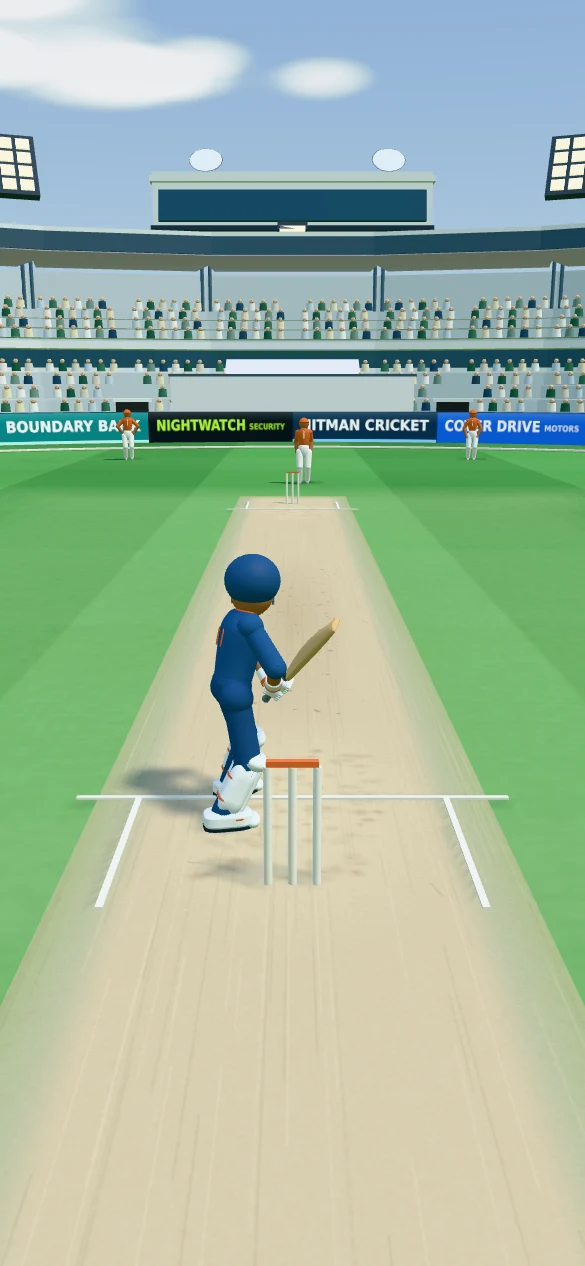
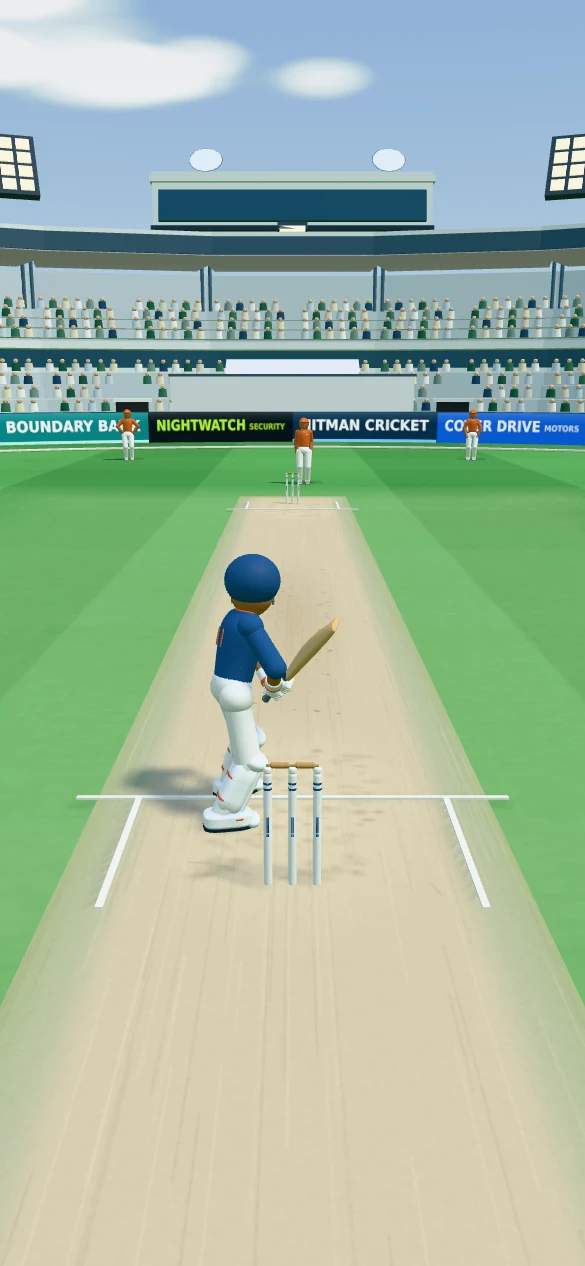
Refine cricket kits, fielding figures and wicket details

diff --git a/src/entities/Cricketer.ts b/src/entities/Cricketer.ts
@@ -1,4 +1,5 @@
 import * as THREE from 'three';
+import { jerseyGeometry } from './garment';
 import { compactRigidParts, LimbInstances } from './compactParts';
 import { RoundedBoxGeometry } from 'three/examples/jsm/geometries/RoundedBoxGeometry.js';
 import { Point, UP, segment, solveJoint } from './rig';
@@ -58,19 +59,6 @@ export const SPINE = .46;
 /** Hip height stood upright, with the legs very nearly straight. */
 export const REST_HIP = .9525;
 
-/**
- * A surface of revolution from a bottom-to-top `[height, radius]` profile,
- * flattened front to back. One of these is a whole trunk — shoulders, ribs,
- * waist and neck in a single unbroken skin — where a stack of ellipsoids leaves
- * a seam at every join and reads as exactly what it is.
- */
-function lathe(profile: [number, number][], depth: number, segments = 32) {
-  const geometry = new THREE.LatheGeometry(profile.map(([y, r]) => new THREE.Vector2(Math.max(r, .002), y)), segments);
-  geometry.scale(1, 1, depth);
-  geometry.computeVertexNormals();
-  return geometry;
-}
-
 const SHAPES = {
   ball: new THREE.SphereGeometry(1, 16, 12),
   /**
@@ -82,22 +70,11 @@ const SHAPES = {
   limb: new THREE.CylinderGeometry(.5, .62, 1, 12, 1),
   tube: new THREE.CylinderGeometry(.5, .5, 1, 12, 1),
   soft: new RoundedBoxGeometry(1, 1, 1, 2, .3),
-  /** Shoulders down to the waist, and up into the neck, in one piece. */
-  trunk: lathe([
-    [-.34, .02], [-.325, .112], [-.27, .142], [-.17, .163], [-.05, .190],
-    [.055, .201], [.125, .186], [.170, .140], [.200, .098],
-    [.245, .072], [.300, .067], [.325, .02],
-  ], .74),
-  /** The pelvis, wide enough at the top for the trunk to tuck inside it. */
-  pelvis: lathe([
-    [-.20, .02], [-.185, .098], [-.125, .146], [-.02, .170], [.075, .167],
-    [.150, .150], [.200, .092], [.225, .02],
-  ], .80),
-  /** A head, rather than a ball with a jaw stuck under it. */
-  head: lathe([
-    [-.160, .02], [-.144, .066], [-.112, .105], [-.058, .129],
-    [.011, .139], [.075, .132], [.126, .099], [.158, .02],
-  ], .92),
+  // Thin sewn details need only six faces; keep rounding for large forms.
+  detail: new THREE.BoxGeometry(1, 1, 1),
+  // Same profile as the batter, sampled more sparsely for distant players.
+  trunk: jerseyGeometry(24, 20),
+  collar: new THREE.TorusGeometry(.071, .012, 6, 24).rotateX(Math.PI / 2),
 };
 
 export interface Kit {
@@ -172,19 +149,21 @@ export class Cricketer {
     this.root.name = 'Articulated cricketer';
     this.root.add(this.hips, this.torso, this.head);
 
-    // Trunk and pelvis are one lathed skin each, and they overlap at the waist
-    // with the trunk tucked inside the wider pelvis, so the join is buried
-    // rather than shown. The neck is part of the trunk for the same reason.
+    // Match the batter's jersey, preserving the existing animation anchors.
     this.mesh(this.torso, shirt, [1, 1, 1], 'trunk');
-    this.mesh(this.hips, trousers, [1, 1, 1], 'pelvis');
-    // Collar and placket, so a turning body reads as turning.
-    this.mesh(this.torso, trim, [.172, .036, .166], 'tube').position.y = .196;
-    this.mesh(this.torso, trim, [.034, .26, .012], 'soft').position.set(0, .01, .142);
-    this.mesh(this.torso, skin, [.128, .10, .118], 'tube').position.y = .27;
+    this.mesh(this.hips, trousers, [.185, .145, .135], 'ball');
+    this.mesh(this.torso, trim, [1, 1, .93], 'collar').position.y = .154;
+    this.mesh(this.torso, trim, [.024, .06, .008], 'detail').position.set(0, .105, .123);
+    this.mesh(this.torso, skin, [.115, .17, .115], 'tube').position.y = .205;
+    // Club badge and a sewn back number, baked into the collar's trim mesh.
+    this.mesh(this.torso, trim, [.035, .043, .008], 'detail').position.set(-.087, .015, .134);
+    for (const x of [-.055, .055]) this.mesh(this.torso, trim, [.028, .125, .008], 'detail').position.set(x, -.04, -.143);
 
-    // Head: one shape, with the cap sitting on it.
-    this.mesh(this.head, skin, [1, 1, 1], 'head');
+    // Rounded face and jaw follow the batter, with a fielding cap.
+    this.mesh(this.head, skin, [.139, .17, .14], 'ball').position.y = -.015;
+    this.mesh(this.head, skin, [.069, .08, .058], 'ball').position.set(0, -.09, .075);
     for (const x of [-.127, .127]) this.mesh(this.head, skin, [.024, .044, .034], 'ball').position.set(x, -.005, -.012);
+    this.mesh(this.head, skin, [.023, .037, .036], 'ball').position.set(0, -.033, .126);
     const cap = material(kit.cap, .74);
     this.palette.push({ role: 'cap', mat: cap });
     this.mesh(this.head, cap, [.144, .128, .152], 'ball').position.set(0, .050, -.004);
@@ -192,7 +171,8 @@ export class Cricketer {
     // dome. A band round a sphere would ring the whole head like a crest.
     const peak = this.mesh(this.head, cap, [.152, .030, .150], 'ball');
     peak.position.set(0, .046, .072); peak.rotation.x = -.18;
-    this.mesh(this.head, cap, [.027, .027, .027], 'ball').position.set(0, .164, -.004);
+    this.mesh(this.head, cap, [.019, .014, .019], 'ball').position.set(0, .175, -.004);
+    this.mesh(this.head, trim, [.032, .033, .009], 'detail').position.set(0, .101, .135);
 
     for (let i = 0; i < 2; i++) {
       const side = i === 0 ? -1 : 1;
@@ -214,10 +194,11 @@ export class Cricketer {
       this.mesh(this.arms[i].upper, trim, [1.04, .075, 1.04], 'tube').position.y = -.30;
 
       const foot = new THREE.Group(); this.root.add(foot);
-      this.mesh(foot, shoe, [.09, .062, .165], 'soft').position.z = .042;
-      this.mesh(foot, shoe, [.046, .034, .036], 'ball').position.set(0, -.012, .128);
-      this.mesh(foot, sole, [.092, .024, .167], 'soft').position.set(0, -.038, .042);
-      this.mesh(foot, flash, [.094, .016, .05], 'soft').position.set(0, .014, 0);
+      this.mesh(foot, shoe, [.15, .10, .26], 'soft').position.z = .042;
+      this.mesh(foot, shoe, [.071, .047, .07], 'ball').position.set(0, -.012, .143);
+      this.mesh(foot, sole, [.154, .026, .28], 'soft').position.set(0, -.052, .052);
+      this.mesh(foot, flash, [.153, .018, .07], 'soft').position.set(0, .027, .02);
+      for (const z of [.07, .10, .13]) this.mesh(foot, shoe, [.066, .008, .01], 'detail').position.set(0, .053, z);
       this.legs.push({
         upper: this.mesh(this.root, trousers, [1, 1, 1], 'limb'),
         lower: this.mesh(this.root, trousers, [1, 1, 1], 'limb'),

diff --git a/src/scene/wicket.ts b/src/scene/wicket.ts
@@ -1,0 +1,47 @@
+import * as THREE from 'three';
+import { Batch, soft } from './build';
+
+/** Turned timber, with the same collision height and bail origins as before. */
+export function buildWicket(parent: THREE.Object3D, height: number, z: number): THREE.Mesh[] {
+  const paint = 0xf8f4e9, ink = 0x294f79, timber = 0xc39660;
+  const batch = new Batch();
+  batch.finish(paint, soft(paint, .72));
+  batch.finish(ink, soft(ink, .76));
+  const profile = [
+    [0, .023], [.025, .025], [height - .055, .025],
+    [height - .046, .024], [height - .042, .021],
+    [height - .035, .021], [height - .031, .025],
+    [height - .012, .025], [height - .005, .022], [height, .017],
+    [height, 0],
+  ];
+  for (const x of [-.145, 0, .145]) {
+    batch.add(new THREE.LatheGeometry(profile.map(([y, r]) => new THREE.Vector2(r, y)), 20).translate(x, 0, z), paint);
+    // Two painted rings and a small vertical maker's mark on each face.
+    for (const y of [height - .10, height - .135]) {
+      batch.add(new THREE.CylinderGeometry(.0253, .0253, .013, 20, 1, true).translate(x, y, z), ink);
+    }
+    for (const side of [-1, 1]) {
+      batch.box(.014, .10, .0015, ink, x, height * .53, z + side * .0245);
+      batch.box(.014, .018, .0015, ink, x, height * .53 - .066, z + side * .0245);
+    }
+  }
+  batch.build(parent);
+
+  // Spigots sit on the stump crowns; the thicker barrel and carved shoulders
+  // make a bail read as timber rather than a rectangular orange block.
+  const bailProfile = [
+    [-.08, 0], [-.08, .008], [-.059, .008], [-.053, .015],
+    [-.045, .018], [-.039, .018], [-.036, .015], [-.032, .018],
+    [.032, .018], [.036, .015], [.039, .018], [.045, .018],
+    [.053, .015], [.059, .008], [.08, .008], [.08, 0],
+  ];
+  const geometry = new THREE.LatheGeometry(bailProfile.map(([y, r]) => new THREE.Vector2(r, y)), 16).rotateZ(Math.PI / 2).translate(0, -.012, 0);
+  return [-.073, .073].map(x => {
+    const bail = new THREE.Mesh(geometry, soft(timber, .7));
+    bail.name = 'Turned wooden bail';
+    bail.position.set(x, height + .02, z);
+    bail.castShadow = true; bail.receiveShadow = true;
+    parent.add(bail);
+    return bail;
+  });
+}

diff --git a/src/entities/Batter.ts b/src/entities/Batter.ts
@@ -1352,7 +1352,7 @@ export type BatterKit = 'home' | 'whites' | 'green' | 'purple' | 'blue';
 export const BATTER_KITS: Record<BatterKit, { shirt: number; helmet: number; trousers: number; accent: number; number: number }> = {
   // A mid navy: the near-black it replaced lost the shape of the shirt under the
   // day's light, and a navy he can be seen in is still a navy.
-  home: { shirt: 0x2f5a88, helmet: 0x2a527c, trousers: 0x294f79, accent: 0xed7044, number: 0xed7044 },
+  home: { shirt: 0x2f5a88, helmet: 0x2a527c, trousers: 0xf4f0e4, accent: 0xed7044, number: 0xed7044 },
   whites: { shirt: 0xf2ece0, helmet: 0x2a527c, trousers: 0xf4f0e4, accent: 0xd9d3c3, number: 0xd9d3c3 },
   green: { shirt: 0x0a2f24, helmet: 0x09291f, trousers: 0xf1eee6, accent: 0x061c15, number: 0xffffff },
   purple: { shirt: 0x5a2fb4, helmet: 0x4d27a3, trousers: 0xf1eee6, accent: 0x3f1e86, number: 0xffffff },
@@ -1416,7 +1416,7 @@ export class Batter {
     // Matte: a helmet's shell is covered in fabric, so it takes the light the
     // way the cap would rather than shining like a motorbike lid.
     helmet: new THREE.MeshStandardMaterial({ color: 0x2a527c, roughness: .64 }),
-    trousers: new THREE.MeshStandardMaterial({ color: 0x294f79, roughness: .82 }),
+    trousers: new THREE.MeshStandardMaterial({ color: 0xf4f0e4, roughness: .82 }),
     pad: new THREE.MeshStandardMaterial({ color: 0xfdfcf4, roughness: .6 }),
     glovePalm: new THREE.MeshStandardMaterial({ color: 0xd9d9cf, roughness: .95 }),
     skin: new THREE.MeshStandardMaterial({ color: 0xb77950, roughness: .87 }),

diff --git a/src/scene/GameScene.ts b/src/scene/GameScene.ts
@@ -1,5 +1,6 @@
 import * as THREE from 'three';
 import { PerformanceReadout } from './performance';
+import { buildWicket } from './wicket';
 import { Batter, type BatterKit, CELEBRATION_MS, CHARGE_MEETS_AT } from '../entities/Batter';
 import { ACTION_MS, Bowler } from '../entities/Bowler';
 import { bodyOf, showBody } from '../entities/Fielder';
@@ -474,11 +475,8 @@ export class GameScene {
     }
   }
   private wicket(z: number) {
-    for (const x of [-0.145, 0, 0.145]) cylinder(this.world, 0.025, GAME.stumpHeight, colors.white, x, GAME.stumpHeight / 2, z, 16);
-    for (const x of [-0.073, 0.073]) {
-      const bail = box(this.world, 0.16, 0.035, 0.045, colors.orange, x, GAME.stumpHeight + 0.02, z);
-      if (z === 0) this.bails.push(bail);
-    }
+    const bails = buildWicket(this.world, GAME.stumpHeight, z);
+    if (z === 0) this.bails.push(...bails);
   }
   private resize = () => {
     const { width, height } = this.container.getBoundingClientRect();

diff --git a/src/entities/garment.ts b/src/entities/garment.ts
@@ -4,7 +4,7 @@ import * as THREE from 'three';
  * Authored in the existing rig's coordinates so no stroke or contact point moves.
  * The profile is continuous; there is no second chest shell intersecting it.
  */
-export function jerseyGeometry() {
+export function jerseyGeometry(rows = 32, sides = 24) {
   const profile = new THREE.CatmullRomCurve3([
     new THREE.Vector3(.142, -.337, .112),
     new THREE.Vector3(.158, -.315, .123),
@@ -16,7 +16,6 @@ export function jerseyGeometry() {
     new THREE.Vector3(.108, .143, .087),
     new THREE.Vector3(.062, .165, .064),
   ]);
-  const rows = 32, sides = 24;
   const vertices: number[] = [], uv: number[] = [], indices: number[] = [];
   for (let j = 0; j <= rows; j++) {
     const p = profile.getPoint(j / rows);

diff --git a/docs/GRAPHICS-LAB-OCT05.md b/docs/GRAPHICS-LAB-OCT05.md
@@ -11,13 +11,20 @@ It retains the procedural rig; it is not a finished Blender/GLB character replac
 ## Visual changes
 
 - A continuous shaped jersey replaces the ellipsoid torso, with a real neckline
-  and collar, repositioned back number and coordinated navy Blast trousers.
+  and collar, repositioned back number and white Blast trousers.
   Test whites and the Rivals kit choices remain available.
 - Neutral daylight removes some yellow from white equipment. Richer green,
   broader mowing bands and quieter grain make the ground less noisy.
 - The pitch is less golden; Test modes keep their greener surface.
 - Cooler stadium concrete and steel, smaller clouds, and seated crowd bodies
   with separate heads replace the audience's plain boxes.
+- Bowler and fielders share the batter's shaped jersey and collar, with chest
+  badges, back numbers, rounded faces, cap badges and fuller shoes with laces.
+  Their joint positions and bowling/fielding animations are retained.
+- Stumps now have turned crowns, painted rings and maker marks. Wooden bails
+  have barrels, grooves and narrow spigots; their animation origins are retained.
+- Small markings use simple box geometry, rigid details remain merged, and
+  distant jerseys sample the same profile with fewer vertices.
 - Night remains available, using the existing floodlight treatment.
 
 | Production | Experiment |
@@ -32,9 +39,13 @@ time zero, with no UI. They are **not peak gameplay costs or measured phone FPS*
 
 | Scene | Draw calls: before → after | Triangles: before → after |
 | --- | --- | --- |
-| Phone, day · 585×1266 buffer | 242 → 181 (−25.2%) | 207,074 → 188,254 (−9.1%) |
-| Phone, night · 585×1266 buffer | 245 → 184 (−24.9%) | 207,076 → 188,256 (−9.1%) |
-| Desktop, day · 1280×720 buffer | 326 → 224 (−31.3%) | 273,214 → 207,082 (−24.2%) |
+| Phone, day · 585×1266 buffer | 242 → 182 (−24.8%) | 207,074 → 195,430 (−5.6%) |
+| Phone, night · 585×1266 buffer | 245 → 185 (−24.5%) | 207,076 → 195,432 (−5.6%) |
+| Desktop, day · 1280×720 buffer | 326 → 227 (−30.4%) | 273,214 → 215,938 (−21.0%) |
+
+The character and wicket detail revision adds one phone draw and three desktop
+draws over the first experiment; triangles rise about 4%. Both measures remain
+below the production baseline.
 
 Texture counts are unchanged (7 by day, 9 by night). This adds no downloaded
 art assets to gameplay and no postprocessing passes. Geometry object counts
@@ -74,10 +85,10 @@ continues using the repository's existing preview database namespace.
 ## Validation
 
 - TypeScript and production build, including serverless function import checks.
-- 237 targeted batter, bowler, fielder, grounds, lighting, analytics and new geometry tests passed.
+- 238 targeted batter, bowler, fielder, grounds, lighting, analytics and new geometry tests passed.
 - Deterministic day/night/desktop captures with no shader or browser errors.
 - Full-game scene checks exercise the actual cover → mode → innings flow.
-  Stadium draws were 435/392 by day and 455/412 at night (desktop/phone).
-  The stadium regression budget is lowered from 680 to 500 calls per frame.
+  All stadium cases remain within the 500-call regression budget, lowered
+  from production's 680 calls per frame.
 
 No production branch was pushed, merged or redeployed for this experiment.
